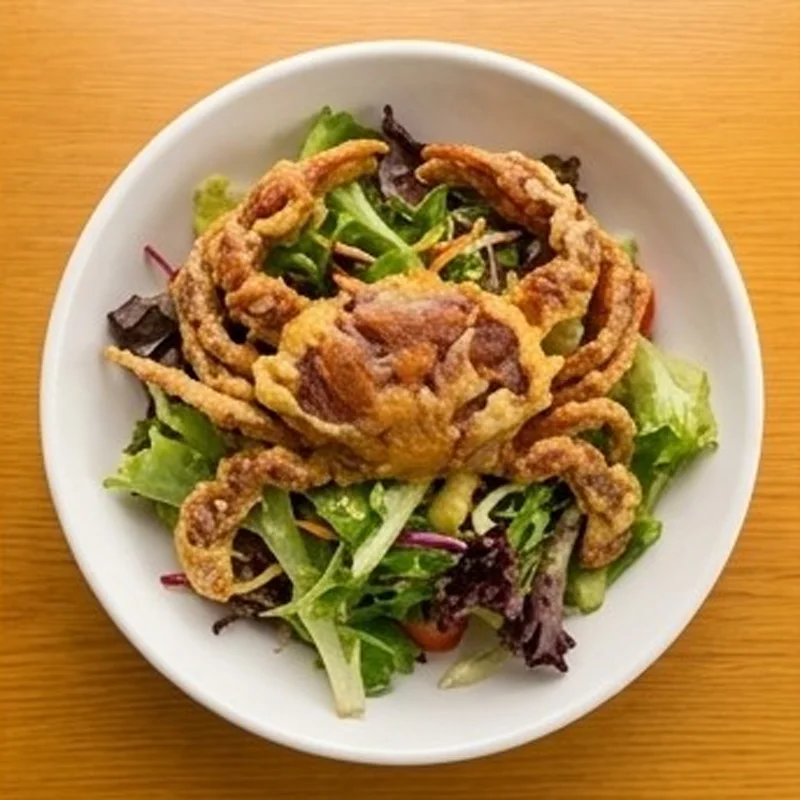
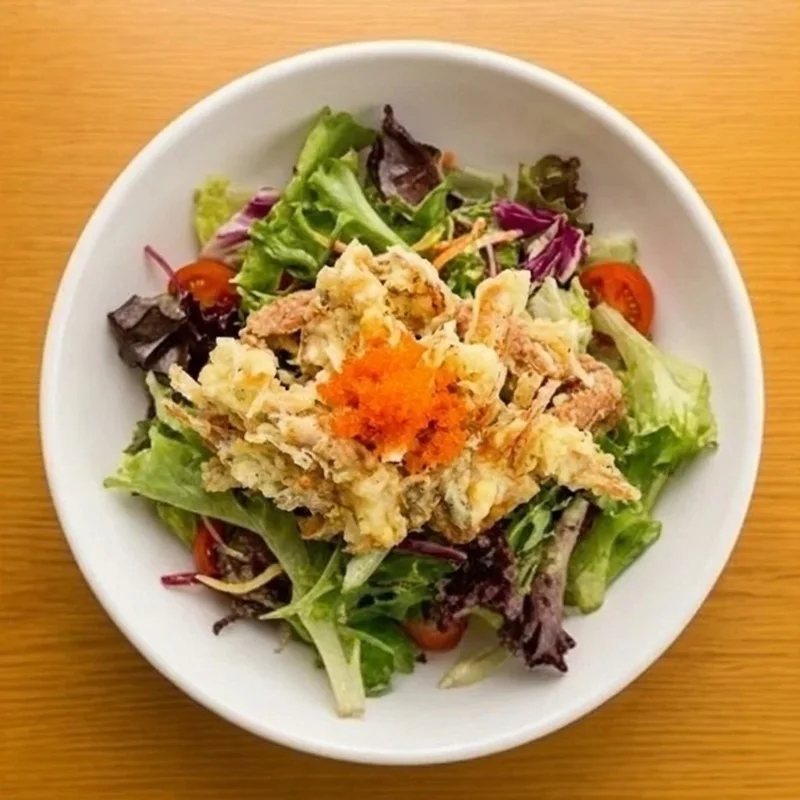
Salad 28: tempura crab pieces instead of a whole crab
Claude-Session: https://claude.ai/code/session_01FUVkhEtpQvfhdoqL6ZWBso

Changed region(s): [[0.125, 0.1562, 0.8438, 0.8125]]

diff --git a/staff/index.html b/staff/index.html
@@ -280,7 +280,7 @@ const API = new URLSearchParams(location.search).get('api') || 'https://cafeupnh
 const VENUE = 'sushigo';
 const POLL_MS = 6000;
 /* dish names by menu number (filled from menu-data.js by tools/build_staff.py) */
-const IMGS = {"186": "d186.webp?v=a20aa473", "210": "d210.webp?v=a943506b", "187": "d187.webp?v=1badcb44", "52": "d52.webp?v=ac59e4e9", "53": "d53.webp?v=2c0ac19c", "54": "d54.webp?v=eab18dd9", "55": "d55.webp?v=7f5644ff", "18": "d18.webp?v=e5817ae8", "19": "d19.webp?v=9f5806cd", "20": "d20.webp?v=f94c2fe5", "21": "d21.webp?v=8108b086", "22": "d22.webp?v=3048be24", "9": "d9.webp?v=b5d30888", "10": "d10.webp?v=52efe0f9", "11": "d11.webp?v=978e4b28", "12": "d12.webp?v=e7273fc0", "13": "d13.webp?v=30b27e16", "14": "d14.webp?v=1446b738", "15": "d15.webp?v=29f66d05", "180": "d180.webp?v=0f438634", "16": "d16.webp?v=c0357a00", "17": "d17.webp?v=0f87eb02", "32": "d32.webp?v=3c840480", "33": "d33.webp?v=2506588e", "34": "d34.webp?v=9d0364af", "35": "d35.webp?v=9e72601e", "36": "d36.webp?v=89c1beae", "37": "d37.webp?v=839d1ea1", "38": "d38.webp?v=ad71e8e0", "39": "d39.webp?v=8ddd849e", "40": "d40.webp?v=5f22025c", "41": "d41.webp?v=d1d522c8", "42": "d42.webp?v=b93ca088", "202": "d202.webp?v=1ab0f3d1", "43": "d43.webp?v=91d3084c", "207": "d207.webp?v=2cb9385f", "208": "d208.webp?v=769a3015", "44": "d44.webp?v=7ca1de35", "56": "d56.webp?v=965f24e4", "57": "d57.webp?v=467516ff", "59": "d59.webp?v=8bb2137d", "58": "d58.webp?v=c860682f", "60": "d60.webp?v=a3e6f60b", "62": "d62.webp?v=d72b8b27", "61": "d61.webp?v=a87b8091", "48": "d48.webp?v=d94c4e30", "170": "d170.webp?v=f50653a2", "49": "d49.webp?v=9775f207", "50": "d50.webp?v=56887285", "51": "d51.webp?v=c34d3efe", "45": "d45.webp?v=b2ccba79", "46": "d46.webp?v=158c345a", "47": "d47.webp?v=a9963afb", "181": "d181.webp?v=94984a7e", "182": "d182.webp?v=d5208821", "183": "d183.webp?v=da481454", "185": "d185.webp?v=edba128e", "184": "d184.webp?v=3b01019c", "23": "d23.webp?v=242646c3", "24": "d24.webp?v=4c65c96f", "25": "d25.webp?v=3a1e9214", "26": "d26.webp?v=6cf13510", "203": "d203.webp?v=e57f266b", "28": "d28.webp?v=901d25aa", "29": "d29.webp?v=6f9289e9", "30": "d30.webp?v=94dbc95f", "31": "d31.webp?v=0d7a5f7f", "27": "d27.webp?v=f4fa92cd", "81": "d81.webp?v=6cc40a24", "82": "d82.webp?v=ed0c97b3", "83": "d83.webp?v=598272e2", "84": "d84.webp?v=908daff8", "200": "d200.webp?v=0f75c608", "85": "d85.webp?v=315ca908", "86": "d86.webp?v=65f37c75", "87": "d87.webp?v=5f1e8d5c", "109": "dr_beer.webp?v=110c074f", "110": "dr_beer.webp?v=110c074f", "111": "dr_heineken.webp?v=cf836dae", "112": "dr_soft.webp?v=ed093acc", "113": "dr_soft.webp?v=ed093acc", "176": "dr_soft.webp?v=ed093acc", "177": "dr_soft.webp?v=ed093acc", "115": "dr_soft.webp?v=ed093acc", "116": "dr_soft.webp?v=ed093acc", "178": "dr_water.webp?v=e8fe1b27", "114": "dr_water.webp?v=e8fe1b27", "179": "dr_coco.webp?v=97f03e8b"};   /* original photo of each dish: ../img/<name>.webp */
+const IMGS = {"186": "d186.webp?v=a20aa473", "210": "d210.webp?v=a943506b", "187": "d187.webp?v=1badcb44", "52": "d52.webp?v=ac59e4e9", "53": "d53.webp?v=2c0ac19c", "54": "d54.webp?v=eab18dd9", "55": "d55.webp?v=7f5644ff", "18": "d18.webp?v=e5817ae8", "19": "d19.webp?v=9f5806cd", "20": "d20.webp?v=f94c2fe5", "21": "d21.webp?v=8108b086", "22": "d22.webp?v=3048be24", "9": "d9.webp?v=b5d30888", "10": "d10.webp?v=52efe0f9", "11": "d11.webp?v=978e4b28", "12": "d12.webp?v=e7273fc0", "13": "d13.webp?v=30b27e16", "14": "d14.webp?v=1446b738", "15": "d15.webp?v=29f66d05", "180": "d180.webp?v=0f438634", "16": "d16.webp?v=c0357a00", "17": "d17.webp?v=0f87eb02", "32": "d32.webp?v=3c840480", "33": "d33.webp?v=2506588e", "34": "d34.webp?v=9d0364af", "35": "d35.webp?v=9e72601e", "36": "d36.webp?v=89c1beae", "37": "d37.webp?v=839d1ea1", "38": "d38.webp?v=ad71e8e0", "39": "d39.webp?v=8ddd849e", "40": "d40.webp?v=5f22025c", "41": "d41.webp?v=d1d522c8", "42": "d42.webp?v=b93ca088", "202": "d202.webp?v=1ab0f3d1", "43": "d43.webp?v=91d3084c", "207": "d207.webp?v=2cb9385f", "208": "d208.webp?v=769a3015", "44": "d44.webp?v=7ca1de35", "56": "d56.webp?v=965f24e4", "57": "d57.webp?v=467516ff", "59": "d59.webp?v=8bb2137d", "58": "d58.webp?v=c860682f", "60": "d60.webp?v=a3e6f60b", "62": "d62.webp?v=d72b8b27", "61": "d61.webp?v=a87b8091", "48": "d48.webp?v=d94c4e30", "170": "d170.webp?v=f50653a2", "49": "d49.webp?v=9775f207", "50": "d50.webp?v=56887285", "51": "d51.webp?v=c34d3efe", "45": "d45.webp?v=b2ccba79", "46": "d46.webp?v=158c345a", "47": "d47.webp?v=a9963afb", "181": "d181.webp?v=94984a7e", "182": "d182.webp?v=d5208821", "183": "d183.webp?v=da481454", "185": "d185.webp?v=edba128e", "184": "d184.webp?v=3b01019c", "23": "d23.webp?v=242646c3", "24": "d24.webp?v=4c65c96f", "25": "d25.webp?v=3a1e9214", "26": "d26.webp?v=6cf13510", "203": "d203.webp?v=e57f266b", "28": "d28.webp?v=9c568e26", "29": "d29.webp?v=6f9289e9", "30": "d30.webp?v=94dbc95f", "31": "d31.webp?v=0d7a5f7f", "27": "d27.webp?v=f4fa92cd", "81": "d81.webp?v=6cc40a24", "82": "d82.webp?v=ed0c97b3", "83": "d83.webp?v=598272e2", "84": "d84.webp?v=908daff8", "200": "d200.webp?v=0f75c608", "85": "d85.webp?v=315ca908", "86": "d86.webp?v=65f37c75", "87": "d87.webp?v=5f1e8d5c", "109": "dr_beer.webp?v=110c074f", "110": "dr_beer.webp?v=110c074f", "111": "dr_heineken.webp?v=cf836dae", "112": "dr_soft.webp?v=ed093acc", "113": "dr_soft.webp?v=ed093acc", "176": "dr_soft.webp?v=ed093acc", "177": "dr_soft.webp?v=ed093acc", "115": "dr_soft.webp?v=ed093acc", "116": "dr_soft.webp?v=ed093acc", "178": "dr_water.webp?v=e8fe1b27", "114": "dr_water.webp?v=e8fe1b27", "179": "dr_coco.webp?v=97f03e8b"};   /* original photo of each dish: ../img/<name>.webp */
 const NAMES = {"9":["Tobiko, flying fish roe","Тобико, икра летучей рыбы","Trứng cá chuồn (Tobiko)",95000],"10":["Salmon “udon” sashimi","Сашими «удон» из лосося","Sashimi sake udon (cá hồi sợi)",199000],"11":["Tuna sashimi (maguro)","Сашими из тунца (магуро)","Sashimi cá ngừ",109000],"12":["Herring with roe sashimi (komochi nishin)","Сашими из сельди с икрой (комочи нишин)","Sashimi cá trích ép trứng",99000],"13":["Octopus sashimi (tako)","Сашими из осьминога (тако)","Sashimi bạch tuộc",95000],"14":["Salmon sashimi (sake)","Сашими из лосося (сакэ)","Sashimi cá hồi",119000],"15":["Salmon belly sashimi (sake hara)","Сашими из брюшка лосося (сакэ хара)","Sashimi bụng cá hồi",129000],"16":["Salmon carpaccio","Карпаччо из лосося","Cá hồi Carpaccio",119000],"17":["Tuna carpaccio","Карпаччо из тунца","Cá ngừ Carpaccio",99000],"18":["Sashimi set, 3 kinds","Сашими-сет, 3 вида","Set 3 loại Sashimi",165000],"19":["Salmon sashimi set","Сашими-сет из лосося","Set cá hồi Sashimi",449000],"20":["Sashimi set, 5 kinds, small (15 pcs)","Сашими-сет, 5 видов, малый (15 шт.)","Set 5 loại Sashimi nhỏ (15 miếng)",269000],"21":["Sashimi set, 6 kinds","Сашими-сет, 6 видов","Set Sashimi 6 loại",299000],"22":["Chef’s special sashimi set (30 pcs)","Сашими-сет от шефа (30 шт.)","Set Sashimi đặc biệt (30 miếng)",449000],"23":["Four seasons seafood salad","Салат «Четыре сезона» с морепродуктами","Salad hải sản bốn mùa",129000],"24":["Mixed seaweed salad","Салат из водорослей ассорти","Salad rong biển trộn",79000],"25":["Crab stick salad (kani)","Салат с крабовыми палочками (кани)","Salad thanh cua",68000],"26":["Tuna mayo salad","Салат с тунцом и майонезом","Salad cá ngừ mayo",75000],"27":["Tuna tataki salad","Салат с татаки из тунца","Salad cá ngừ khò tái",109000],"28":["Crispy soft-shell crab salad","Салат с хрустящим крабом в мягком панцире","Salad cua lột chiên giòn",139000],"29":["Salmon skin salad","Салат с хрустящей кожей лосося","Salad da cá hồi",79000],"30":["Salmon & avocado salad","Салат с лососем и авокадо","Salad cá hồi bơ",129000],"31":["Salmon tataki salad","Салат с татаки из лосося","Salad cá hồi khò tái",128000],"32":["Crab stick nigiri (kani)","Нигири с крабовой палочкой (кани)","Nigiri thanh cua",20000],"33":["Salmon nigiri (sake)","Нигири с лососем (сакэ)","Nigiri cá hồi",49000],"34":["Tuna nigiri (maguro)","Нигири с тунцом (магуро)","Nigiri cá ngừ",45000],"35":["Torched salmon nigiri with teriyaki (sake aburi)","Нигири с обожжённым лососем и терияки (сакэ абури)","Nigiri cá hồi khò teri",49000],"36":["Octopus nigiri (tako)","Нигири с осьминогом (тако)","Nigiri bạch tuộc",45000],"37":["Herring with roe nigiri (nishin)","Нигири с сельдью и икрой (нишин)","Nigiri cá trích ép trứng",45000],"38":["Salmon belly nigiri (sake hara)","Нигири с брюшком лосося (сакэ хара)","Nigiri bụng cá hồi",55000],"39":["Torched tuna nigiri with teriyaki (maguro aburi)","Нигири с обожжённым тунцом и терияки (магуро абури)","Nigiri cá ngừ khò teri",45000],"40":["Tuna nigiri with cheese","Нигири с тунцом и сыром","Nigiri cá ngừ phô mai",49000],"41":["Salmon nigiri with cheese","Нигири с лососем и сыром","Nigiri cá hồi phô mai",55000],"42":["Grilled eel nigiri (unagi)","Нигири с жареным угрём (унаги)","Nigiri lươn nướng",55000],"43":["Gunkan with flying fish roe (tobiko)","Гункан с икрой летучей рыбы (тобико)","Gunkan trứng cá chuồn",45000],"44":["Salmon gunkan with tobiko","Гункан из лосося с тобико","Gunkan cá hồi trứng cá chuồn",65000],"45":["Salmon tempura roll (hosomaki)","Тонкий ролл с лососем в темпуре","Cuộn cá hồi chiên tempura",65000],"46":["Seafood tempura roll","Ролл с морепродуктами в темпуре","Cuộn hải sản chiên tempura",75000],"47":["Spicy seafood tempura roll","Острый ролл с морепродуктами в темпуре","Cuộn hải sản cay chiên tempura",75000],"48":["Avocado hosomaki","Хосомаки с авокадо","Hosomaki bơ",30000],"49":["Salmon hosomaki (sake maki)","Хосомаки с лососем (сакэ маки)","Hosomaki cá hồi sống",55000],"50":["Tuna hosomaki (tekka maki)","Хосомаки с тунцом (тэкка маки)","Hosomaki cá ngừ sống",50000],"51":["Crab stick hosomaki (kani maki)","Хосомаки с крабовой палочкой (кани маки)","Hosomaki thanh cua",30000],"52":["Sushi & sashimi set A","Сет суши и сашими A","Set Sushi & Sashimi A",195000],"53":["Sushi & sashimi set B","Сет суши и сашими B","Set Sushi & Sashimi B",249000],"54":["Sushi set Matsu (16 pcs)","Суши-сет «Мацу» (16 шт.)","Set sushi nhỏ (16 miếng)",195000],"55":["Sushi set Take (20 pcs)","Суши-сет «Такэ» (20 шт.)","Set sushi lớn (20 miếng)",299000],"56":["Seafood futomaki (kaisen futo maki)","Футомаки с морепродуктами (кайсэн футо маки)","Cuộn futo hải sản sống",85000],"57":["Rainbow seafood roll","Ролл «Радуга» с морепродуктами","Cuộn hải sản cầu vồng",92000],"58":["Soft-shell crab roll with raw salmon","Ролл с крабом в мягком панцире и лососем","Cuộn cua lột phủ cá hồi sống",139000],"59":["Soft-shell crab roll with raw tuna","Ролл с крабом в мягком панцире и тунцом","Cuộn cua lột phủ cá ngừ sống",125000],"60":["Spicy tuna maki","Ролл с тунцом и острым соусом","Cuộn cá ngừ sống sốt cay",90000],"61":["Mixed seafood California roll","Ролл «Калифорния» с морепродуктами","Cuộn hải sản tổng hợp (California)",89000],"62":["Norwegian salmon roll","Ролл с норвежским лососем","Cuộn cá hồi Nauy",95000],"81":["Ebi tempura, 5 shrimp","Креветки темпура, 5 шт.","Tôm chiên tempura (5 con)",95000],"82":["Mixed tempura","Темпура ассорти","Tempura tổng hợp (2 tôm & rau củ)",76000],"83":["Tori karaage","Тори караагэ","Gà chiên kiểu Nhật",85000],"84":["Tori katsu","Тори кацу","Gà chiên xù",89000],"85":["Beef katsu","Говядина кацу","Bò Oushi chiên furai",169000],"86":["Maguro katsu","Магуро кацу","Cá ngừ chiên furai",99000],"87":["Sake katsu","Сякэ кацу (лосось)","Cá hồi chiên furai",140000],"109":["Tiger beer, can","Пиво Tiger, банка","Bia Tiger (lon)",20000],"110":["Saigon beer, can","Пиво Saigon, банка","Bia Saigon (lon)",20000],"111":["Heineken, can","Пиво Heineken, банка","Bia Heineken (lon)",24000],"112":["Coca-Cola, can","Coca-Cola, банка","Coca-Cola (lon)",15000],"113":["Pepsi, can","Pepsi, банка","Pepsi (lon)",15000],"114":["Still water, bottle","Вода без газа, бутылка","Nước suối (chai)",10000],"115":["Sprite, can","Sprite, банка","Sprite (lon)",15000],"116":["Revive salted lemon","Revive с солёным лимоном","Revive chanh muối",15000],"170":["Cucumber hosomaki (kappa maki)","Хосомаки с огурцом (каппа маки)","Hosomaki dưa leo",30000],"176":["Pepsi Zero, can","Pepsi Zero, банка","Pepsi Zero (lon)",18000],"177":["Pepsi No Sugar Lemon, can","Pepsi без сахара со вкусом лимона, банка","Pepsi không đường vị chanh (lon)",17000],"178":["Soda water, can","Содовая, банка","Soda (lon)",20000],"179":["Coconut water, can","Кокосовая вода, банка","Nước dừa (lon)",25000],"180":["White fish sashimi","Сашими из белой рыбы","Sashimi cá trắng",119000],"181":["Hot roll with tuna & cheese","Горячий ролл с тунцом и сыром","Cuộn cá ngừ & phô mai chiên",79000],"182":["Hot roll with salmon & cheese","Горячий ролл с лососем и сыром","Cuộn cá hồi & phô mai chiên",99000],"183":["Hot roll with shrimp & cheese","Горячий ролл с креветкой и сыром","Cuộn tôm & phô mai chiên",68000],"184":["Special futomaki seafood hot roll","Фирменный горячий футомаки с морепродуктами","Cuộn hải sản đặc biệt chiên",149000],"185":["Hot roll with seafood & cheese","Горячий ролл с морепродуктами и сыром","Cuộn hải sản & phô mai chiên",99000],"186":["Sushi set C, 8 pcs","Суши-сет C, 8 шт.","Set Sushi C (8 miếng)",169000],"187":["LOVE YOU set (for sharing)","Сет LOVE YOU (на компанию)","Set LOVE YOU",399000],"200":["Soft-shell crab tempura","Краб с мягким панцирем в темпуре","Cua lột chiên tempura",149000],"202":["White fish nigiri","Нигири с белой рыбой","Nigiri cá trắng",55000],"203":["Smoked duck breast salad","Салат с копчёной утиной грудкой","Salad ức vịt xông khói",99000],"207":["Spicy salmon gunkan","Гункан с острым лососем","Gunkan cá hồi cay",45000],"208":["Torched salmon gunkan","Гункан с обожжённым лососем","Gunkan cá hồi nướng",69000],"210":["Salmon sushi combo","Сет «Лосось комбо»","Set sushi cá hồi combo",199000]}/*NAMES*/;
 
 const L = {

diff --git a/index.html b/index.html
@@ -700,7 +700,7 @@ const ICON={
  fish:'<svg viewBox="0 0 32 32" fill="none" stroke="currentColor" stroke-width="2.2" stroke-linecap="round" stroke-linejoin="round"><path d="M6 16c4-6 10-8 16-6 3 1 5 3 7 6-2 3-4 5-7 6-6 2-12 0-16-6z"/><path d="M6 16l-3-5M6 16l-3 5"/><circle cx="23" cy="14.5" r="1.3" fill="currentColor"/></svg>',
  crab:'<svg viewBox="0 0 32 32" fill="none" stroke="currentColor" stroke-width="2.2" stroke-linecap="round"><ellipse cx="16" cy="19" rx="8" ry="6"/><path d="M8 17l-4-3M8 21l-4 2M24 17l4-3M24 21l4 2M11 13l-3-6M21 13l3-6"/></svg>'
 };
-const IMGV={"d10": "52efe0f9", "d11": "978e4b28", "d12": "e7273fc0", "d13": "30b27e16", "d14": "1446b738", "d15": "29f66d05", "d16": "c0357a00", "d17": "0f87eb02", "d170": "f50653a2", "d18": "e5817ae8", "d180": "0f438634", "d181": "94984a7e", "d182": "d5208821", "d183": "da481454", "d184": "3b01019c", "d185": "edba128e", "d186": "a20aa473", "d187": "1badcb44", "d19": "9f5806cd", "d20": "f94c2fe5", "d200": "0f75c608", "d202": "1ab0f3d1", "d203": "e57f266b", "d207": "2cb9385f", "d208": "769a3015", "d21": "8108b086", "d210": "a943506b", "d22": "3048be24", "d23": "242646c3", "d24": "4c65c96f", "d25": "3a1e9214", "d26": "6cf13510", "d27": "f4fa92cd", "d28": "901d25aa", "d29": "6f9289e9", "d30": "94dbc95f", "d31": "0d7a5f7f", "d32": "3c840480", "d33": "2506588e", "d34": "9d0364af", "d35": "9e72601e", "d36": "89c1beae", "d37": "839d1ea1", "d38": "ad71e8e0", "d39": "8ddd849e", "d40": "5f22025c", "d41": "d1d522c8", "d42": "b93ca088", "d43": "91d3084c", "d44": "7ca1de35", "d45": "b2ccba79", "d46": "158c345a", "d47": "a9963afb", "d48": "d94c4e30", "d49": "9775f207", "d50": "56887285", "d51": "c34d3efe", "d52": "ac59e4e9", "d53": "2c0ac19c", "d54": "eab18dd9", "d55": "7f5644ff", "d56": "965f24e4", "d57": "467516ff", "d58": "c860682f", "d59": "8bb2137d", "d60": "a3e6f60b", "d61": "a87b8091", "d62": "d72b8b27", "d81": "6cc40a24", "d82": "ed0c97b3", "d83": "598272e2", "d84": "908daff8", "d85": "315ca908", "d86": "65f37c75", "d87": "5f1e8d5c", "d9": "b5d30888", "dr_beer": "110c074f", "dr_coco": "97f03e8b", "dr_heineken": "cf836dae", "dr_soft": "ed093acc", "dr_water": "e8fe1b27"};
+const IMGV={"d10": "52efe0f9", "d11": "978e4b28", "d12": "e7273fc0", "d13": "30b27e16", "d14": "1446b738", "d15": "29f66d05", "d16": "c0357a00", "d17": "0f87eb02", "d170": "f50653a2", "d18": "e5817ae8", "d180": "0f438634", "d181": "94984a7e", "d182": "d5208821", "d183": "da481454", "d184": "3b01019c", "d185": "edba128e", "d186": "a20aa473", "d187": "1badcb44", "d19": "9f5806cd", "d20": "f94c2fe5", "d200": "0f75c608", "d202": "1ab0f3d1", "d203": "e57f266b", "d207": "2cb9385f", "d208": "769a3015", "d21": "8108b086", "d210": "a943506b", "d22": "3048be24", "d23": "242646c3", "d24": "4c65c96f", "d25": "3a1e9214", "d26": "6cf13510", "d27": "f4fa92cd", "d28": "9c568e26", "d29": "6f9289e9", "d30": "94dbc95f", "d31": "0d7a5f7f", "d32": "3c840480", "d33": "2506588e", "d34": "9d0364af", "d35": "9e72601e", "d36": "89c1beae", "d37": "839d1ea1", "d38": "ad71e8e0", "d39": "8ddd849e", "d40": "5f22025c", "d41": "d1d522c8", "d42": "b93ca088", "d43": "91d3084c", "d44": "7ca1de35", "d45": "b2ccba79", "d46": "158c345a", "d47": "a9963afb", "d48": "d94c4e30", "d49": "9775f207", "d50": "56887285", "d51": "c34d3efe", "d52": "ac59e4e9", "d53": "2c0ac19c", "d54": "eab18dd9", "d55": "7f5644ff", "d56": "965f24e4", "d57": "467516ff", "d58": "c860682f", "d59": "8bb2137d", "d60": "a3e6f60b", "d61": "a87b8091", "d62": "d72b8b27", "d81": "6cc40a24", "d82": "ed0c97b3", "d83": "598272e2", "d84": "908daff8", "d85": "315ca908", "d86": "65f37c75", "d87": "5f1e8d5c", "d9": "b5d30888", "dr_beer": "110c074f", "dr_coco": "97f03e8b", "dr_heineken": "cf836dae", "dr_soft": "ed093acc", "dr_water": "e8fe1b27"};
 const MENU=[
   /* ---------- Sushi sets ---------- */
   {id:'186', cat:'set', vi:'Set Sushi C (8 miếng)', price:169000, img:'d186',
